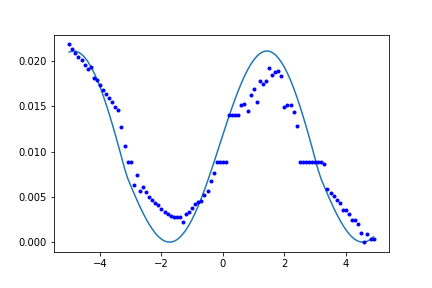
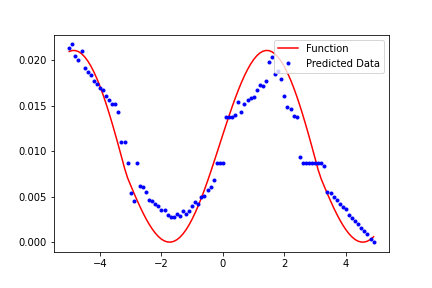
kernel estimator added

diff --git a/metrics_test/.ipynb_checkpoints/heteroscedastic_data-checkpoint.py b/metrics_test/.ipynb_checkpoints/heteroscedastic_data-checkpoint.py
@@ -8,32 +8,46 @@ def normalize_it(y):
     y_norm = y/np.sum(y)
     return y_norm
 
-#x = np.arange(0, 100, 0.5)
-nr_data = 750
-x = np.zeros(nr_data)
-y = np.zeros(len(x))
-print(len(x))
-for j in range(1):
-    for i in range(nr_data):
-        if i < nr_data/3:
+def generate_norm_data(length, diff):
+    x = np.zeros(length)
+    y = np.zeros(len(x))
+    for i in range(length):
+        if i < length/3:
             x[i] = 2/5*np.random.randn()-4 
-        elif i >= nr_data/3 and i < nr_data*2/3:
+        elif i >= length/3 and i < length*2/3:
             x[i] = 0.9*np.random.randn() 
         else:    
             x[i] = 2/5*np.random.randn()+4
 
-        y[i] = 7*math.sin(x[i]) + 3*abs(math.cos(x[i]/2))*np.random.randn() 
+    y = 7*np.sin(x) + 3*abs(np.cos(x/2))*np.random.randn(length)
 
-   # np.savetxt("./data/paper_heteroscedastic_data_test.txt", (x, y))
+    y = y + abs(np.min(y))
+    y_norm = y/np.sum(y)
+    return x, y_norm
 
-real_x = np.arange(-5, 5, 0.1)
-real_y =  7*np.sin(real_x) + 3*abs(np.cos(real_x/2))
+
+def generate_data():
+    x = np.arange(-5, 5, 0.1)
+    y = 7*np.sin(x) + 3*abs(np.cos(x/2))*np.random.randn(len(x))
+    return x, y
+
+
+x, y = generate_norm_data(1000, 3)
+real_x = np.arange(-5, 5, 0.01)
+print(len(x), len(real_x))
+real_y =  7*np.sin(real_x) #+ 3*abs(np.cos(real_x/2))#*np.random.randn(len(real_x))
 plt.plot(real_x, normalize_it(real_y))
 
-y = y + abs(np.min(y))
-y = y/np.sum(y)
-plt.plot(x, y, '.b')
-#plt.plot(real_x, real_y)
+# +
+plt.plot(x, y, '.b', label="With uncertainty")
+
+#plt.plot(x, normalize_it(y), '.b')
+
+plt.plot(real_x, normalize_it(real_y), 'r', label="Function")
+plt.legend(loc='upper right')
 plt.savefig("./plots/metrics/realdata_with_function.png")
+# -
 
 plt.show()
+
+

diff --git a/metrics_test/heteroscedastic_data.py b/metrics_test/heteroscedastic_data.py
@@ -8,32 +8,46 @@ def normalize_it(y):
     y_norm = y/np.sum(y)
     return y_norm
 
-#x = np.arange(0, 100, 0.5)
-nr_data = 750
-x = np.zeros(nr_data)
-y = np.zeros(len(x))
-print(len(x))
-for j in range(1):
-    for i in range(nr_data):
-        if i < nr_data/3:
+def generate_norm_data(length, diff):
+    x = np.zeros(length)
+    y = np.zeros(len(x))
+    for i in range(length):
+        if i < length/3:
             x[i] = 2/5*np.random.randn()-4 
-        elif i >= nr_data/3 and i < nr_data*2/3:
+        elif i >= length/3 and i < length*2/3:
             x[i] = 0.9*np.random.randn() 
         else:    
             x[i] = 2/5*np.random.randn()+4
 
-        y[i] = 7*math.sin(x[i]) + 3*abs(math.cos(x[i]/2))*np.random.randn() 
+    y = 7*np.sin(x) + 3*abs(np.cos(x/2))*np.random.randn(length)
 
-   # np.savetxt("./data/paper_heteroscedastic_data_test.txt", (x, y))
+    y = y + abs(np.min(y))
+    y_norm = y/np.sum(y)
+    return x, y_norm
 
-real_x = np.arange(-5, 5, 0.1)
-real_y =  7*np.sin(real_x) + 3*abs(np.cos(real_x/2))
+
+def generate_data():
+    x = np.arange(-5, 5, 0.1)
+    y = 7*np.sin(x) + 3*abs(np.cos(x/2))*np.random.randn(len(x))
+    return x, y
+
+
+x, y = generate_norm_data(1000, 3)
+real_x = np.arange(-5, 5, 0.01)
+print(len(x), len(real_x))
+real_y =  7*np.sin(real_x) #+ 3*abs(np.cos(real_x/2))#*np.random.randn(len(real_x))
 plt.plot(real_x, normalize_it(real_y))
 
-y = y + abs(np.min(y))
-y = y/np.sum(y)
-plt.plot(x, y, '.b')
-#plt.plot(real_x, real_y)
+# +
+plt.plot(x, y, '.b', label="With uncertainty")
+
+#plt.plot(x, normalize_it(y), '.b')
+
+plt.plot(real_x, normalize_it(real_y), 'r', label="Function")
+plt.legend(loc='upper right')
 plt.savefig("./plots/metrics/realdata_with_function.png")
+# -
 
 plt.show()
+
+

diff --git a/metrics_test/Kernel_estimation_method.py b/metrics_test/Kernel_estimation_method.py
@@ -18,6 +18,7 @@ import math
 import matplotlib.pyplot as plt
 import matplotlib
 from mpl_toolkits.mplot3d import Axes3D
+from sklearn.neighbors import KernelDensity
 
 
 def generate_norm_data(length, diff):
@@ -37,23 +38,39 @@ def generate_norm_data(length, diff):
     return x, y_norm
 
 
-def kernel_estimator(x, y):
-    
+def kernel_estimator(data1, xplot, h):
+    kde = KernelDensity(kernel="gaussian", bandwidth=h).fit(data1)
+    log_dens = kde.score_samples(xplot)
+    return log_dens
+
+
+x, y = generate_norm_data(750, 3)
+#plt.plot(x, y, '.b')
 
 
 # +
-x1, y1 = generate_data(750, 3)
-x2, y2 = generate_data(750, 3)
-x3, y3 = generate_data(750, 7)
-x4, y4 = generate_data(750, 7)
+x1, y1 = generate_norm_data(750, 3)
+x2, y2 = generate_norm_data(750, 3)
+x3, y3 = generate_norm_data(750, 7)
+x4, y4 = generate_norm_data(750, 7)
 
 x_test1 = np.concatenate((x1, x2))
 y_test1 = np.concatenate((y1, y2))
 x_test2 = np.concatenate((x3, x4))
 y_test2 = np.concatenate((y3, y4))
+
 # -
 
-h1, xedges1, yedges1 = np.histogram2d(x_test1, y_test1, bins = 20)
-h2, xedges2, yedges2 = np.histogram2d(x_test2, y_test2, bins = 20)
+h1, xedges, yedges, image = plt.hist2d(x_test1, y_test1, bins = (30, 30), norm = matplotlib.colors.PowerNorm(0.3))
+print(np.shape(h1))
+h2, xedges2, yedges2, image2 = plt.hist2d(x_test2, y_test2, bins = (30, 30), norm = matplotlib.colors.PowerNorm(0.3))
+plt.show()
+xx, yy = np.mgrid[-5:5:30j, 
+                      0:0.003:30j]
+xy_sample = np.vstack([yy.ravel(), xx.ravel()]).T
+print(np.shape(xy_sample))
+print(xy_sample)
+
+log_dens = kernel_estimator(h1, xy_sample, 0.2)
 
 

diff --git a/metrics_test/metrics_implementation.py b/metrics_test/metrics_implementation.py
@@ -119,7 +119,7 @@ net = Net()
 net.load_state_dict(torch.load('./weights/heteroscedastic/3layer_epochs_5000_withdropout.pt'))
 net.eval()
 
-data_pred1, _ = generate_data()
+data_pred1, test = generate_data()
 data_pred = np.transpose(np.vstack((data_pred1, np.random.randn(len(data_pred1)))))
 data_pred_torch = torch.from_numpy(data_pred).float()
 predictions = []
@@ -137,13 +137,16 @@ predictions2 = []
 for data in data_pred_torch:
     predictions2.append(test_data(data, net))
 predictions2 = np.asarray(predictions2)
-plt.plot(data_pred1, normalize_it(real_y))
+plt.plot(data_pred1, normalize_it(real_y), 'r', label='Function')
 plt.plot(data_pred2, normalize_it(predictions2), '.b', label = "Predicted Data")
+#plt.plot(data_pred2, normalize_it(y), '+g', label = 'With uncertainty')
+plt.legend(loc='upper right')
 plt.savefig("./plots/metrics/comparison_pred_real.png")
 plt.show()
 
-plt.plot(data_pred2, normalize_it(y), '.b')
-plt.plot(data_pred1, normalize_it(real_y))
+plt.plot(data_pred2, normalize_it(y), '.b', label = 'With uncertainty')
+plt.plot(data_pred1, normalize_it(real_y), 'r', label='Function')
+plt.legend(loc='upper right')
 plt.savefig("./plots/metrics/comparison_withuncertainty_real.png")
 plt.show()
 
